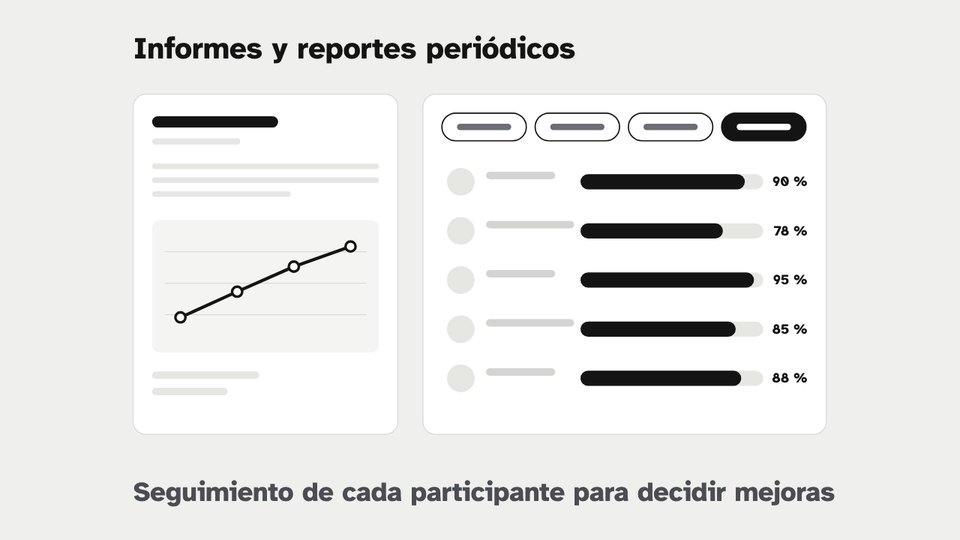
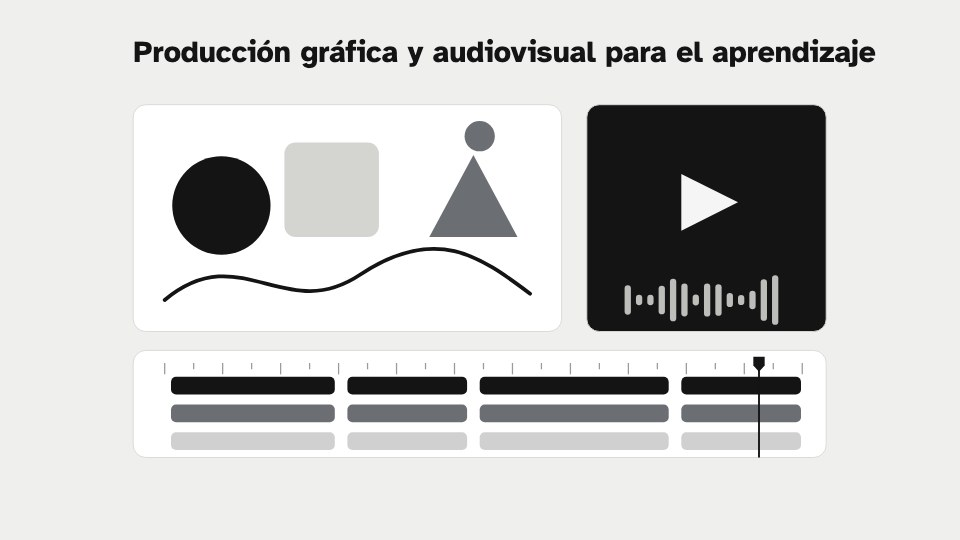
Carrusel de siete láminas con un solo texto, celular de contacto y titular con productos interactivos
Claude-Session: https://claude.ai/code/session_01MnGv8dLrLZDrQWoWfiJDmy

diff --git a/index.html b/index.html
@@ -21,7 +21,7 @@
 <link rel="preconnect" href="https://fonts.googleapis.com">
 <link rel="preconnect" href="https://fonts.gstatic.com" crossorigin>
 <link href="https://fonts.googleapis.com/css2?family=Familjen+Grotesk:wght@400;500;600&display=swap" rel="stylesheet">
-<script type="application/ld+json">{"@context": "https://schema.org", "@type": "Person", "name": "Cristopher Gutiérrez González", "jobTitle": "Diseñador instruccional", "email": "mailto:profesorcristophergutierrez@gmail.com", "url": "https://profesorcristophergutierrez-commits.github.io/portafolio/", "address": {"@type": "PostalAddress", "addressLocality": "Talca", "addressCountry": "CL"}, "sameAs": ["https://www.linkedin.com/in/cristopher-guti%C3%A9rrez-gonz%C3%A1lez-b8936b148/"]}</script>
+<script type="application/ld+json">{"@context": "https://schema.org", "@type": "Person", "name": "Cristopher Gutiérrez González", "jobTitle": "Diseñador instruccional", "email": "mailto:profesorcristophergutierrez@gmail.com", "telephone": "+56981506236", "url": "https://profesorcristophergutierrez-commits.github.io/portafolio/", "address": {"@type": "PostalAddress", "addressLocality": "Talca", "addressCountry": "CL"}, "sameAs": ["https://www.linkedin.com/in/cristopher-guti%C3%A9rrez-gonz%C3%A1lez-b8936b148/"]}</script>
 <style>
   /* Serie fotográfica: cada pieza real dentro de un objeto sobre el mismo escritorio. Tinta negra, un acento cobalto para las acciones. */
   :root {
@@ -63,6 +63,7 @@
 
   /* Apertura */
   .apertura { padding-top: 72px; padding-bottom: 64px; display: grid; grid-template-columns: 1.15fr 1fr; gap: 56px; align-items: end; }
+  .apertura .principios { margin: 0 0 16px; font-size: 1.12rem; font-weight: 600; line-height: 1.3; color: var(--tinta); }
   .carrusel { margin: 0; }
   .sl { margin: 0; }
   .sl img { width: 100%; height: auto; aspect-ratio: 16 / 9; background: #EFEFED; border-radius: 4px; }
@@ -238,24 +239,30 @@
   <section class="ancho apertura" aria-labelledby="titular">
     <div>
       <p class="quien"><img src="images/foto_linkedin.jpg" width="112" height="112" alt="Fotografía de Cristopher Gutiérrez González"><span><b>Cristopher Gutiérrez González</b>Profesor de Castellano y Comunicación, diseñador instruccional y asesor educativo. Magíster en Ciencias de la Educación, mención Currículum y Evaluación.</span></p>
-      <h1 id="titular">Cursos en línea, videos con IA y recursos interactivos.</h1>
+      <h1 id="titular">Cursos en línea, videos con IA y productos interactivos.</h1>
       <p>Producción de soluciones tecnopedagógicas para universidades, organismos de capacitación y empresas.</p>
       <div class="vinculos">
         <a class="boton" href="mailto:profesorcristophergutierrez@gmail.com">Contacto</a>
         <a href="files/CV_Cristopher_Gutierrez.pdf">Currículum en PDF</a>
         <a href="https://www.linkedin.com/in/cristopher-guti%C3%A9rrez-gonz%C3%A1lez-b8936b148/" rel="noopener">LinkedIn</a>
+        <a href="tel:+56981506236">+56 9 8150 6236</a>
       </div>
     </div>
+    <div>
+    <p class="principios">Etapas de mi producción</p>
     <div class="carrusel" role="group" aria-roledescription="carrusel" aria-label="Competencias principales">
-      <figure class="sl"><img src="hero/hero_1.jpg" data-fijo="hero/hero_1.jpg" data-gif="hero/hero_1.gif" width="960" height="540" alt="Ilustración animada: documentos de investigación que se examinan, se seleccionan y se ordenan"><figcaption class="sr">Curaduría desde la investigación. Selección de fuentes y evidencia que fundamentan cada contenido.</figcaption></figure>
-      <figure class="sl" hidden><img src="hero/hero_2.jpg" data-fijo="hero/hero_2.jpg" data-gif="hero/hero_2.gif" width="960" height="540" alt="Ilustración animada: una misma pantalla de curso que adopta tres paletas de color e identidades distintas"><figcaption class="sr">Coherencia con la identidad institucional. Cada recurso adopta la identidad visual de la empresa u organismo.</figcaption></figure>
-      <figure class="sl" hidden><img src="hero/hero_3.jpg" data-fijo="hero/hero_3.jpg" data-gif="hero/hero_3.gif" width="960" height="540" alt="Ilustración animada: barras de datos que crecen y un ciclo de medición, retroalimentación y mejora"><figcaption class="sr">Mejora continua desde la evidencia. Seguimiento y retroalimentación constructiva para perfeccionar el diseño.</figcaption></figure>
-      <figure class="sl" hidden><img src="hero/hero_4.jpg" data-fijo="hero/hero_4.jpg" data-gif="hero/hero_4.gif" width="960" height="540" alt="Ilustración animada: formas vectoriales, una curva de Bézier y una línea de tiempo de montaje de video"><figcaption class="sr">Diseño gráfico y audiovisual para el aprendizaje. Imágenes vectoriales, video y animación al servicio de la enseñanza.</figcaption></figure>
-      <figure class="sl" hidden><img src="hero/hero_5.jpg" data-fijo="hero/hero_5.jpg" data-gif="hero/hero_5.gif" width="960" height="540" alt="Ilustración animada: informes periódicos con el avance de cada participante que sube periodo a periodo"><figcaption class="sr">Informes y reportes periódicos. Informes de diseño y reportes de avance de cada participante.</figcaption></figure>
+      <figure class="sl"><img src="hero/hero_1.jpg" data-fijo="hero/hero_1.jpg" data-gif="hero/hero_1.gif" width="960" height="540" alt="Ilustración animada: tres especialistas aportan contenidos que se transforman en un curso con módulos completados"><figcaption class="sr">Trabajo junto a especialistas de cada disciplina. El conocimiento de cada disciplina se convierte en aprendizaje.</figcaption></figure>
+      <figure class="sl" hidden><img src="hero/hero_2.jpg" data-fijo="hero/hero_2.jpg" data-gif="hero/hero_2.gif" width="960" height="540" alt="Ilustración animada: documentos de investigación que se examinan, se seleccionan y se ordenan"><figcaption class="sr">Curaduría desde la investigación. Cada contenido se apoya en fuentes y evidencia seleccionadas.</figcaption></figure>
+      <figure class="sl" hidden><img src="hero/hero_3.jpg" data-fijo="hero/hero_3.jpg" data-gif="hero/hero_3.gif" width="960" height="540" alt="Ilustración animada: una misma pantalla de curso que adopta distintas paletas de color e identidades"><figcaption class="sr">Alineamiento con la identidad institucional. Cada producto responde a la identidad y necesidades institucionales.</figcaption></figure>
+      <figure class="sl" hidden><img src="hero/hero_4.jpg" data-fijo="hero/hero_4.jpg" data-gif="hero/hero_4.gif" width="960" height="540" alt="Ilustración animada: una pantalla de curso que suma subtítulos, texto ajustable, mayor contraste y navegación por teclado"><figcaption class="sr">Accesibilidad desde el diseño universal. Todas las personas pueden aprender con cada producto.</figcaption></figure>
+      <figure class="sl" hidden><img src="hero/hero_5.jpg" data-fijo="hero/hero_5.jpg" data-gif="hero/hero_5.gif" width="960" height="540" alt="Ilustración animada: formas vectoriales, una curva de Bézier y una línea de tiempo de montaje de video"><figcaption class="sr">Producción gráfica y audiovisual para el aprendizaje. Imagen, video y animación al servicio de la enseñanza.</figcaption></figure>
+      <figure class="sl" hidden><img src="hero/hero_6.jpg" data-fijo="hero/hero_6.jpg" data-gif="hero/hero_6.gif" width="960" height="540" alt="Ilustración animada: informes periódicos con el avance de cada participante que sube periodo a periodo"><figcaption class="sr">Aseguramiento de la calidad con tutorización y reportería. Seguimiento y reportes periódicos en cada etapa.</figcaption></figure>
+      <figure class="sl" hidden><img src="hero/hero_7.jpg" data-fijo="hero/hero_7.jpg" data-gif="hero/hero_7.gif" width="960" height="540" alt="Ilustración animada: barras de datos que crecen y un ciclo de medición, retroalimentación y mejora"><figcaption class="sr">Mejora continua desde la evidencia. Los resultados orientan cada ajuste.</figcaption></figure>
       <div class="car-ctl">
-        <div class="puntos" role="group" aria-label="Elegir lámina"><button type="button" aria-label="Lámina 1: Curaduría desde la investigación"></button><button type="button" aria-label="Lámina 2: Coherencia con la identidad institucional"></button><button type="button" aria-label="Lámina 3: Mejora continua desde la evidencia"></button><button type="button" aria-label="Lámina 4: Diseño gráfico y audiovisual para el aprendizaje"></button><button type="button" aria-label="Lámina 5: Informes y reportes periódicos"></button></div>
+        <div class="puntos" role="group" aria-label="Elegir lámina"><button type="button" aria-label="Lámina 1: Trabajo junto a especialistas de cada disciplina"></button><button type="button" aria-label="Lámina 2: Curaduría desde la investigación"></button><button type="button" aria-label="Lámina 3: Alineamiento con la identidad institucional"></button><button type="button" aria-label="Lámina 4: Accesibilidad desde el diseño universal"></button><button type="button" aria-label="Lámina 5: Producción gráfica y audiovisual para el aprendizaje"></button><button type="button" aria-label="Lámina 6: Aseguramiento de la calidad con tutorización y reportería"></button><button type="button" aria-label="Lámina 7: Mejora continua desde la evidencia"></button></div>
         <button type="button" class="accion" id="car-pausa" aria-pressed="false">Pausar</button>
       </div>
+    </div>
     </div>
   </section>
 
@@ -330,7 +337,7 @@
   <div>
     <h2>¿Diseñamos tu próximo curso?</h2>
     <p>Escríbeme a <a href="mailto:profesorcristophergutierrez@gmail.com">profesorcristophergutierrez@gmail.com</a></p>
-    <div class="vinculos"><a href="files/CV_Cristopher_Gutierrez.pdf">Currículum en PDF</a><a href="https://www.linkedin.com/in/cristopher-guti%C3%A9rrez-gonz%C3%A1lez-b8936b148/" rel="noopener">LinkedIn</a></div>
+    <div class="vinculos"><a href="files/CV_Cristopher_Gutierrez.pdf">Currículum en PDF</a><a href="https://www.linkedin.com/in/cristopher-guti%C3%A9rrez-gonz%C3%A1lez-b8936b148/" rel="noopener">LinkedIn</a><a href="tel:+56981506236">+56 9 8150 6236</a></div>
   </div>
   <small>«Germina la vida en el surco», Jorge González Bastías, poeta del Maule (<i>Vera rústica</i>, 1933, dominio público). Escenas fotográficas generadas con IA; las pantallas muestran piezas reales.</small>
 </footer>

diff --git a/plantilla.html b/plantilla.html
@@ -63,6 +63,7 @@
 
   /* Apertura */
   .apertura { padding-top: 72px; padding-bottom: 64px; display: grid; grid-template-columns: 1.15fr 1fr; gap: 56px; align-items: end; }
+  .apertura .principios { margin: 0 0 16px; font-size: 1.12rem; font-weight: 600; line-height: 1.3; color: var(--tinta); }
   .carrusel { margin: 0; }
   .sl { margin: 0; }
   .sl img { width: 100%; height: auto; aspect-ratio: 16 / 9; background: #EFEFED; border-radius: 4px; }
@@ -244,14 +245,18 @@
         <a class="boton" href="mailto:{{CORREO}}">Contacto</a>
         <a href="{{CV}}">Currículum en PDF</a>
         <a href="{{LINKEDIN}}" rel="noopener">LinkedIn</a>
+        <a href="tel:{{TELEFONO}}">{{TELEFONO_TEXTO}}</a>
       </div>
     </div>
+    <div>
+    <p class="principios">{{PRINCIPIOS}}</p>
     <div class="carrusel" role="group" aria-roledescription="carrusel" aria-label="Competencias principales">
 {{CARRUSEL}}
       <div class="car-ctl">
         <div class="puntos" role="group" aria-label="Elegir lámina">{{PUNTOS}}</div>
         <button type="button" class="accion" id="car-pausa" aria-pressed="false">Pausar</button>
       </div>
+    </div>
     </div>
   </section>
 
@@ -304,7 +309,7 @@
   <div>
     <h2>¿Diseñamos tu próximo curso?</h2>
     <p>Escríbeme a <a href="mailto:{{CORREO}}">{{CORREO}}</a></p>
-    <div class="vinculos"><a href="{{CV}}">Currículum en PDF</a><a href="{{LINKEDIN}}" rel="noopener">LinkedIn</a></div>
+    <div class="vinculos"><a href="{{CV}}">Currículum en PDF</a><a href="{{LINKEDIN}}" rel="noopener">LinkedIn</a><a href="tel:{{TELEFONO}}">{{TELEFONO_TEXTO}}</a></div>
   </div>
   <small>«Germina la vida en el surco», Jorge González Bastías, poeta del Maule (<i>Vera rústica</i>, 1933, dominio público). Escenas fotográficas generadas con IA; las pantallas muestran piezas reales.</small>
 </footer>

diff --git a/construir.py b/construir.py
@@ -70,7 +70,7 @@ def pagina():
     pasos = "".join(f"<li>{e(x)}</li>" for x in D["pasos"])
     inst = "".join(f"<li>{e(x)}</li>" for x in D["instituciones"])
     ld = json.dumps({"@context": "https://schema.org", "@type": "Person", "name": S["nombre"],
-                     "jobTitle": "Diseñador instruccional", "email": "mailto:" + S["correo"], "url": S["url"],
+                     "jobTitle": "Diseñador instruccional", "email": "mailto:" + S["correo"], "telephone": S["telefono"], "url": S["url"],
                      "address": {"@type": "PostalAddress", "addressLocality": "Talca", "addressCountry": "CL"},
                      "sameAs": [S["linkedin"]]}, ensure_ascii=False)
     plantilla = (RAIZ / "plantilla.html").read_text(encoding="utf-8")
@@ -78,7 +78,7 @@ def pagina():
         "{{TITULO_PAGINA}}": e(S["nombre"] + ", diseño instruccional"),
         "{{DESCRIPCION}}": e(S["descripcion"]), "{{URL}}": e(S["url"]), "{{NOMBRE}}": e(S["nombre"]),
         "{{TITULAR}}": e(S["titulo"]), "{{ROL}}": e(S["rol"]), "{{BAJADA}}": e(S["bajada"]), "{{CORREO}}": e(S["correo"]),
-        "{{LINKEDIN}}": e(S["linkedin"]), "{{CV}}": e(S["cv"]), "{{FILTROS}}": filtros, "{{PIEZAS}}": piezas, "{{CIFRAS}}": cifras, "{{CARRUSEL}}": carrusel, "{{PUNTOS}}": puntos, "{{CASOS}}": tarjetas_casos(LISTA_CASOS),
+        "{{LINKEDIN}}": e(S["linkedin"]), "{{TELEFONO}}": e(S["telefono"]), "{{TELEFONO_TEXTO}}": e(S["telefono_texto"]), "{{PRINCIPIOS}}": e(S["principios"]), "{{CV}}": e(S["cv"]), "{{FILTROS}}": filtros, "{{PIEZAS}}": piezas, "{{CIFRAS}}": cifras, "{{CARRUSEL}}": carrusel, "{{PUNTOS}}": puntos, "{{CASOS}}": tarjetas_casos(LISTA_CASOS),
         "{{MAS}}": mas, "{{PROYECTOS}}": proyectos, "{{PASOS}}": pasos, "{{INSTITUCIONES}}": inst, "{{LD}}": ld,
     }
     for k, v in reemplazos.items():
